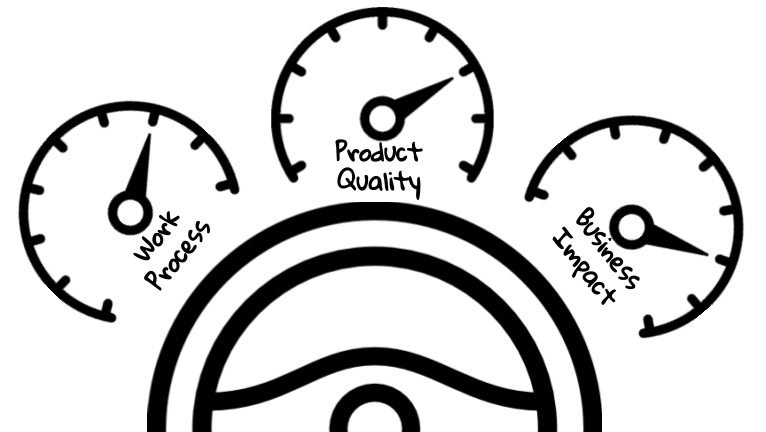
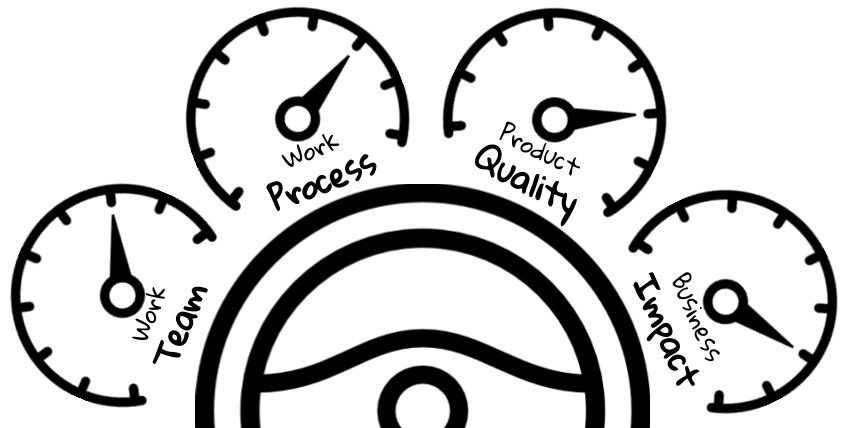
Edit 4 metrics Model

diff --git a/content/project_management.tex b/content/project_management.tex
@@ -109,41 +109,71 @@ Las métricas son una combinación de atributos cuantificables pertinentes que c
 
 Bajo el marco Scrum, ayuda al equipo a medir su propio desempeño en el proceso de trabajo para poder hacer cambios basados en hechos. También es un soporte a la gestión de proyectos para poder medir el avance del proyecto en cuanto a impacto de negocio (no a seguir un plan), revisar la productividad de valor y el desempeño\footnote{Las métricas se pueden usar para medir desempeño, pero no se deben utilizar en forma punitiva ni tampoco en sistemas de evaluación de desempeño de empleados.} del equipo en cuanto a madurez. Además hay indicadores de calidad de producto que nos pueden indicar aspectos claves de prestancia y salud de un producto. 
 
-En síntesis, se pueden categorizar las métricas en tres aspectos: proceso de trabajo, calidad de producto e impacto de negocio.
+En síntesis, se pueden categorizar las métricas en cuatro aspectos: trabajo en equipo, proceso de trabajo, calidad de producto e impacto de negocio (ver fig. \ref{fig:Metrics_KPIs}).
 
 \begin{figure}[h]
   \centering
   \includegraphics[width=0.70\textwidth]{Metrics_KPIs}
-  \caption{KPIs.}
+  \caption{Modelo de 4 categoría de métricas o KPIs.}
   \centering
   \label{fig:Metrics_KPIs} %\ref{fig:Metrics_KPIs}
 \end{figure}
 \FloatBarrier % Command to control the position of floating images. With its, I can get the figures not to be pushed to the end of the document.
 % El comando FloatBarrier es usado aqui para que la imagen se clave en este lugar y que no sea acarreada al final del documento.
 
-\subsubsection{Unidades de medida relativas}
+\subsection{Métricas de equipo}
 
-Para poder usar métricas y medir es necesario unidades de medida. Con Scrum se suelen comenzar a usar unidades relativas en los casos en que se necesita medir de antemano o estimar o cuando se quiere medir algo no determinístico o tangible como el esfuerzo o complejidad. Las más usadas son:
+El trabajo colaborativo es uno de los cuatro aspectos claves de la agilidad. Por tal motivo podemos medirlo de alguna manera simple para ayudar en la mejora contínua del equipo. A continuación puedo mostrar algunas sugerencias.
 
 \begin{enumerate}
 
-\item {\textbf{Story Points:}
-El Story Points o SP es una unidad de medida que indica una cantidad de alcance o trabajo que puede ser entregado o tamaño de producto estimado para entregar. Representa la complejidad o esfuerzo necesario para terminar las tareas de una historia \footnote{\cite{Jipson-Thomas-2015}}. El SP sirve como estimación de la complejidad en forma relativa y sumativa que hacen los desarrolladores. También hay que tener en cuenta que es una unidad subjetiva que depende de qué equipo hace la estimación de medida.
+\item {\textbf{Team Happiness:}
+Un estudio de Harvard muestra que la felicidad aumenta la producción de cualquier tipo de trabajo, pues "la gente feliz es 12 \% más productiva"\footnote{\cite{U-K-University-2014}}. Además, un principio de la agilidad es desarrollar en torno a individuos motivados. En base a esto podemos intentar medir la felicidad Sprint a Sprint\footnote{\cite{Jeff-2014}}. 
+
+La felicidad del equipo es un indicativo de la salud del equipo en relación a su capacidad de entrega de valor. Para medir la felicidad del equipo podemos hacer encuestas o responder las siguientes preguntas:
+
+  \begin{enumerate}
+  \item {¿Cómo me siento acerca de mi trabajo? Se puede usar una escala de 1 a 5 (ver figura \ref{fig:HappinessMetric}). 
+  
+  \begin{figure}[h]
+  \centering
+  \includegraphics[width=0.40\textwidth]{HappinessMetric}
+  \caption{Medida de satisfacción}
+  \centering
+  \label{fig:HappinessMetric} %\ref{fig:HappinessMetric}
+  \end{figure}
+  \FloatBarrier
+
+  Otra escala para medir felicidad puede ser de siete puntos. Por ejemplo a la pregunta... ¿Cómo calificaría su felicidad en este momento? Se puede responder con 1 que es totalmente triste, 2 es muy triste , 3 es triste, 4 es ni feliz ni triste, 5 es bastante feliz, 6 es muy feliz y 7 es completamente feliz\footnote{\cite{U-K-University-2014}}.
+  }
+  
+  \item {¿Qué va a hacer que me sienta mejor?}
+  \end{enumerate}
+
+Cuando tenemos la información de cada miembro del equipo, el equipo puede hacer una lluvia de ideas de cómo hacer para mejorar y aumentar la felicidad en el siguiente Sprint y darle curso y seguimiento a las acciones propuestas.
+
 }
 
-\item {\textbf{Business Value Point:}
-El Business Value o BV es el valor añadido que la historia aporta al negocio\footnote{\cite{Pointet-Botton-2012}}. A semejanza del SP, el Business Value Point o BVP sirve como estimación del valor de negocio en forma relativa y sumativa que hace el PO. También hay que tener en cuenta que es una unidad subjetiva que depende de qué PO o equipo de personas hace la estimación de medida.
+\item {\textbf{Team Morale:}
+Indicador moral de equipo dice cómo está la moral en tu equipo. La moral del equipo es una medida más estable y confiable que la felicidad del equipo \footnote{Agile Teams: Don't use happiness metrics, measure Team Morale. Agilistic, Christiaan Verwijs, 2014.}. Esta métrica mide el orgullo, entusiasmo, energía, resiliencia, disposición para ayudarse mutuamente y motivación por el significado y propósito. Se puede medir mediante encuestas periódicas. Un cuestionario simple y práctico puede ser el siguiente (Las preguntas individuales se califican en una escala de 1 a 7 o de 1 a 5):
+  \begin{enumerate}
+  \item {¿Me siento bien (siento que encajo) y me siento fortalecido en mi equipo?}
+  \item {¿Estoy orgulloso del trabajo que hago para mi equipo?}
+  \item {¿Estoy entusiasmado con el trabajo que hago para mi equipo?}
+  \item {¿Encuentro el trabajo que hago para mi equipo de significado y con propósito?}
+  \end{enumerate}
 }
+
 
 \end{enumerate}
 
 \subsection{Métricas del proceso de trabajo}
 
-Los equipos de desarrollo, para mejorar, deben buscar su estabilidad, sostenibilidad y su proceso de trabajo limpio. En este sentido hay muchos indicadores clave del proceso de trabajo, de rendimiento, internos y del equipo, que nos pueden ser de utilidad para monitorear el proceso de desarrollo y que nos permita la inspección y adaptación constante, como por ejemplo los siguientes\footnote{Scott y Jeff \cite{Scott-Jeff-2013} y la  Scrumalliance en un artículo llamado "Velocity, How to Calculate and Use Velocity to Help Your Team and Your Projects", por Catia Oliveira (6 February 2014).}:
+La entrega de valor fluida y continua es otro de los cuatro aspectos claves de la agilidad. Para mejorar este flujo de valor se busca, entre otras cosas, un flujo estable, sostenible y en un proceso de trabajo limpio (sin impedimentos ni desperdicios). En este sentido hay muchos indicadores clave del proceso de trabajo, de rendimiento, internos del equipo, que nos pueden ser de utilidad para monitorear el proceso de desarrollo y que nos permita la inspección y adaptación constante, como por ejemplo los siguientes\footnote{Scott y Jeff \cite{Scott-Jeff-2013} y la  Scrumalliance en un artículo llamado "Velocity, How to Calculate and Use Velocity to Help Your Team and Your Projects", por Catia Oliveira (6 February 2014).}:
 
 \begin{enumerate}
 
-\item {\textbf{Velocity:} La 'velocidad'\footnote{"Sum of original estimates of all accepted work" \cite{Scott-Jeff-2013}.} es el número de unidades de trabajo o puntos de historia SP estimados y aceptados por un equipo en una iteración Sprint. En otras palabras, es el conjunto de puntos de historia totales conseguidos (aceptados) por el equipo al final de cada Sprint\footnote{\cite{Jipson-Thomas-2015}}.}
+\item {\textbf{Velocity:} La 'velocidad'\footnote{"Sum of original estimates of all accepted work" \cite{Scott-Jeff-2013}.} es el número de unidades de trabajo o puntos de historia SP estimados y aceptados por un equipo en una iteración Sprint. En otras palabras, es el conjunto de puntos de historia totales conseguidos (aceptados) por el equipo al final de cada Sprint\footnote{\cite{Jipson-Thomas-2015}}. Aquí hay que tener en cuenta que el Story Points o SP es una unidad de medida que indica una cantidad de alcance o trabajo que puede ser entregado o tamaño de producto estimado para entregar. Representa la complejidad o esfuerzo necesario para terminar las tareas de una historia \footnote{\cite{Jipson-Thomas-2015}}. El SP sirve como estimación de la complejidad en forma relativa y sumativa que hacen los desarrolladores. También hay que tener en cuenta que es una unidad subjetiva que depende de qué equipo hace la estimación de medida.} 
 
 Esta definición es la clásica y es algo genérica. Hay tres formas más específicas de interpretar y medir la velocidad:
 
@@ -183,33 +213,6 @@ Por ejemplo, si el resultado es 200\% significa que el equipo ha duplicado su ca
 
 %Otras: Percentage of Adopted Work, Percentage of Found Work, Accuracy of Estimation, Accuracy of Forecast, Targeted Value Increase (TVI+), Success at Scale
 
-\item {\textbf{Team Happiness:}
-Un estudio de Harvard muestra que la felicidad aumenta la producción de cualquier tipo de trabajo, pues "la gente feliz es 12 \% más productiva"\footnote{\cite{U-K-University-2014}}. Además, un principio de la agilidad es desarrollar en torno a individuos motivados. En base a esto podemos intentar medir la felicidad Sprint a Sprint\footnote{\cite{Jeff-2014}}. 
-
-La felicidad del equipo es un indicativo de la salud del equipo en relación a su capacidad de entrega de valor. Para medir la felicidad del equipo podemos hacer encuestas o responder las siguientes preguntas:
-
-  \begin{enumerate}
-  \item {¿Cómo me siento acerca de mi trabajo? Se puede usar una escala de 1 a 5 (ver figura \ref{fig:HappinessMetric}). 
-  
-  \begin{figure}[h]
-  \centering
-  \includegraphics[width=0.40\textwidth]{HappinessMetric}
-  \caption{Medida de satisfacción}
-  \centering
-  \label{fig:HappinessMetric} %\ref{fig:HappinessMetric}
-  \end{figure}
-  \FloatBarrier
-
-  Otra escala para medir felicidad puede ser de siete puntos. Por ejemplo a la pregunta... ¿Cómo calificaría su felicidad en este momento? Se puede responder con 1 que es totalmente triste, 2 es muy triste , 3 es triste, 4 es ni feliz ni triste, 5 es bastante feliz, 6 es muy feliz y 7 es completamente feliz\footnote{\cite{U-K-University-2014}}.
-  }
-  
-  \item {¿Qué va a hacer que me sienta mejor?}
-  \end{enumerate}
-
-Cuando tenemos la información de cada miembro del equipo, el equipo puede hacer una lluvia de ideas de cómo hacer para mejorar y aumentar la felicidad en el siguiente Sprint y darle curso y seguimiento a las acciones propuestas.
-
-}
-
 \item {\textbf{Delivery rate:}
 La tasa de entrega es un indicador que nos puede servir para ver la evolución de los tiempos de entrega. Nos puede ayudar a mejorar el continuous delivery.
 }
@@ -219,13 +222,14 @@ La tasa de entrega es un indicador que nos puede servir para ver la evolución d
 
 \subsection{Métricas de impacto de negocio}
 
-La verdadera medida de éxito en Scrum es el incremento de producto que es valioso para el cliente. Pero… ¿Cómo medir qué es valioso para el cliente?
+Siguiendo una de las claves de la agilidad, el flujo de entrega de valor continuo, es que podemos suponer que la verdadera medida de éxito en Scrum es el incremento de producto que es valioso para el cliente, para entregar valor de forma temprana. Pero… ¿Cómo medir qué es valioso para el cliente?
 Scrum no prescribe métricas de negocio o indicadores clave de impacto de negocio, aunque es necesario usarlos para saber si estamos entregando valor o generando el impacto deseado. El PO tiene el poder de tomar la decisión última de negocio y necesita datos empíricos para hacerlo. Además, en el proceso de inspección y adaptación, para construir el producto adecuado, el equipo con el PO necesitan observar indicadores de producto, orientarse, decidir y actuar, en busca de maximizar el valor. En esta vía, el PO tiene la posibilidad de usar Business Value Point para estimar valor entregado o hacer una distinción entre historias de usuario de cara a cliente o técnicas (más adelante explicado). Por otro lado también se pueden manejar un conjunto mínimo y suficiente de indicadores de negocio. A estos indicadores se los suele llamar KPI's y en el caso de negocio podemos interpretarlos como indicadores claves de impacto del producto. Algunos son los siguientes.
+
 
 
   \begin{description}    
 
-  \item {\textbf{Business Value Delivered:} Valor de negocio entregado. Se pueden contabilizar los BV entregados en cada Sprint.
+  \item {\textbf{Business Value Delivered:} Valor de negocio entregado. Se pueden contabilizar los Business Value o BV entregados en cada Sprint. El VB es el valor añadido que la feature/historia aporta al negocio\footnote{\cite{Pointet-Botton-2012}}. A semejanza del SP, el Business Value Point o BVP sirve como estimación del valor de negocio en forma relativa y sumativa que hace el PO. También hay que tener en cuenta que es una unidad subjetiva que depende de qué PO o equipo de personas hace la estimación de medida.
 } 
  
   \item {\textbf{SHSAT:} Grado de satisfacción de los Stakeholders. Se puede medir la felicidad de los Stakeholder como indicador de grado de satisfacción que indica qué tan contentos estuvieron con los resultados del Sprint y con la Review. Este relevamiento relacionado a la percepción de valor entregado se puede hacer en la misma Review.
@@ -271,4 +275,3 @@ Scrum no prescribe métricas de negocio o indicadores clave de impacto de negoci
 \subsection{Métricas ágiles}
 
 Por último, hay que tener en cuenta que para que las métricas estén bajo un marco Scrum deben respetar los principios de la agilidad. La medida principal es el software funcionando. Las métricas deben ser un medio de comunicación efectiva e impulsar la transparencia. Deben servir al equipo para que se auto-organize en procesos de corrección de desvíos y mejora contínua, apoyando la reflexión sobre cómo ser más efectivos. Y, principalmente, se debe buscar siempre la simplicidad. Las métricas que agregan complejidad innecesaria o sobre-información no son acordes a la agilidad. Lo difícil es encontrar el equilibrio entre un Scrum minimalista y hacer ingeniería. Si no medimos no podemos hacer análisis del sistema de trabajo, o sistema productivo, para mejorar con datos empíricos como lo requiere el trabajo ingenieril; pero si medimos excesivamente podemos estar generando desperdicio (burocracia y trabajo no relevante) y ruido informativo (datos que no generan información útil). Los KPI's no se deben convertir en objetivos que deben lograrse ni en herramienta de control de empleados.
-

diff --git a/content/philosophy.tex b/content/philosophy.tex
@@ -4,7 +4,7 @@ Discriminando todas las filosofías generales, como ideologías y concepciones r
 
 \section{Mentalidad y modelos mentales}
 
-Las personas que participan en el desarrollo de sistemas, diseños organizacionales o industrias de software tienen experiencias, creencias, principios, vivencias y valores que repercuten y condicionan el modo en que ellas perciben la realidad de su día a día y, en consecuencia, repercuten y condicionan a su actuar, su forma de hacer, su trabajo y el resultado del mismo, sistemas hombre-máquina o software. Estas ideas, en los gerentes y desarrolladores, son modelos mentales que conforman una mentalidad, o lo que se denomina mindset (Masa Maeda 2012 \footnote{Masa K Maeda es PhD, Founder and CEO de Valueinnova USA (capacitación Scrum). Es el creador de Serious LeAP, consultor senior del Cutter Consortium en Boston, miembro del comité de dirección del Agile Testing Alliance y maestro en la Universidad de California en Berkeley. Es pionero de Lean y Kanban para trabajo de conocimiento y uno de los formadores del Lean Kanban University. Es una figura líder mundial en Agile y ha generado Serious Games de alto calibre. Previamente hizo I+D para Apple Inc en USA y para Justsystems en Japón. Obtuvo el doctorado y la maestría en Japón.}). O sea que la filosofía o perspectiva filosófica que una persona siga o adhiera está relacionada a los modelos mentales de esa persona y forja su mentalidad o mindset que en algún sentido lo guía.
+Las personas que participan en el desarrollo de sistemas, diseños organizacionales o industrias de software tienen experiencias, creencias, principios, vivencias y valores que repercuten y condicionan el modo en que ellas perciben la realidad de su día a día y, en consecuencia, repercuten y condicionan a su actuar, su forma de hacer, su trabajo y el resultado del mismo, sistemas hombre-máquina o software. Estas ideas, en los gerentes y desarrolladores, son modelos mentales que conforman una mentalidad, o lo que se denomina mindset (Masa Maeda 2012 \footnote{Masa K Maeda es PhD, Founder and CEO de Valueinnova USA (capacitación Scrum).}). O sea que la filosofía o perspectiva filosófica que una persona siga o adhiera está relacionada a los modelos mentales de esa persona y forja su mentalidad o mindset que en algún sentido lo guía.
 
 Los modelos mentales pueden definirse como: “imágenes internas, que están profundamente arraigadas, de cómo funciona el mundo, imágenes que nos limitan a las formas familiares de pensar y actuar”. Los modelos mentales abarcan cuestiones acerca de cómo vemos el mundo y de cómo actuamos en el mundo. 
 
